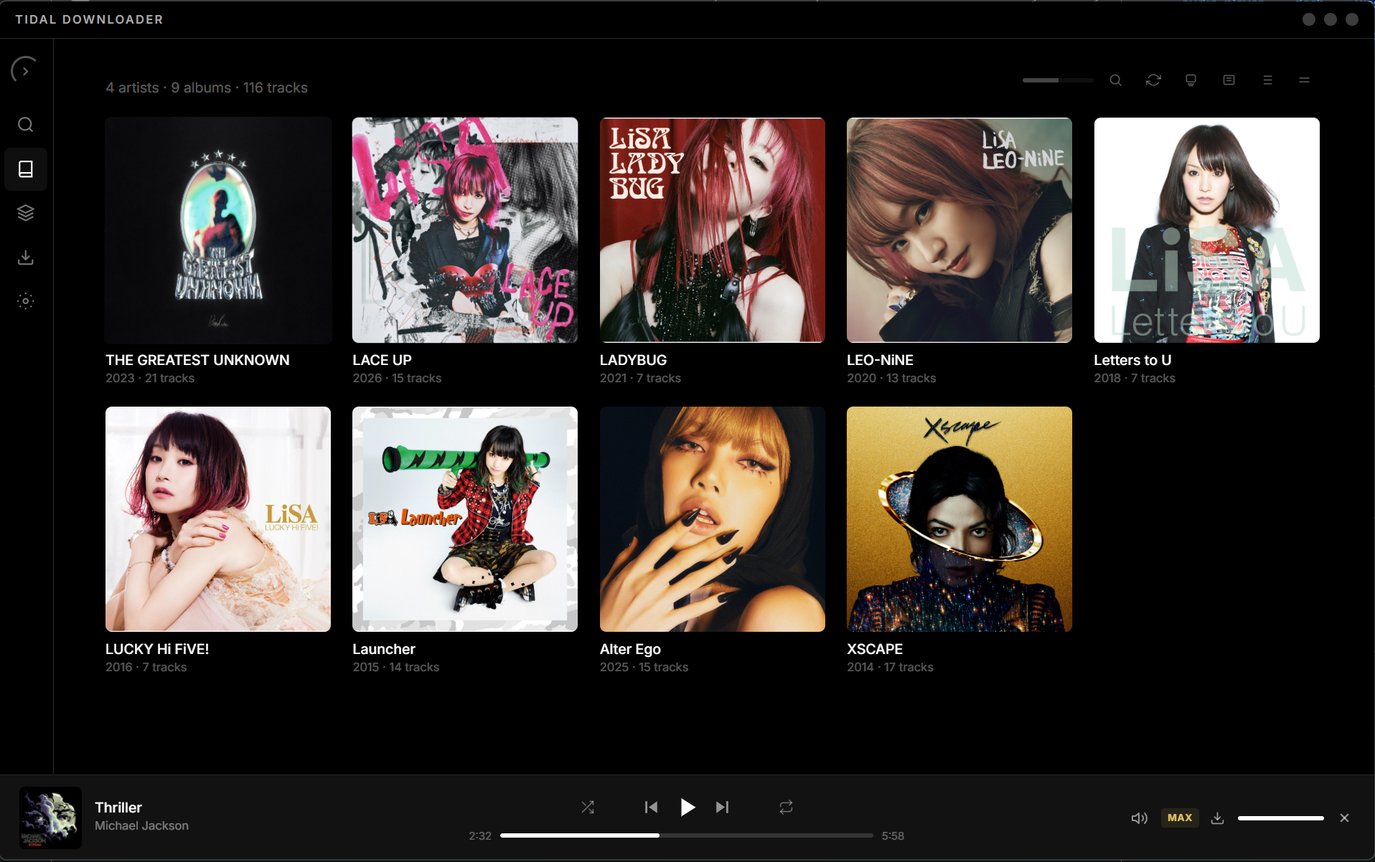
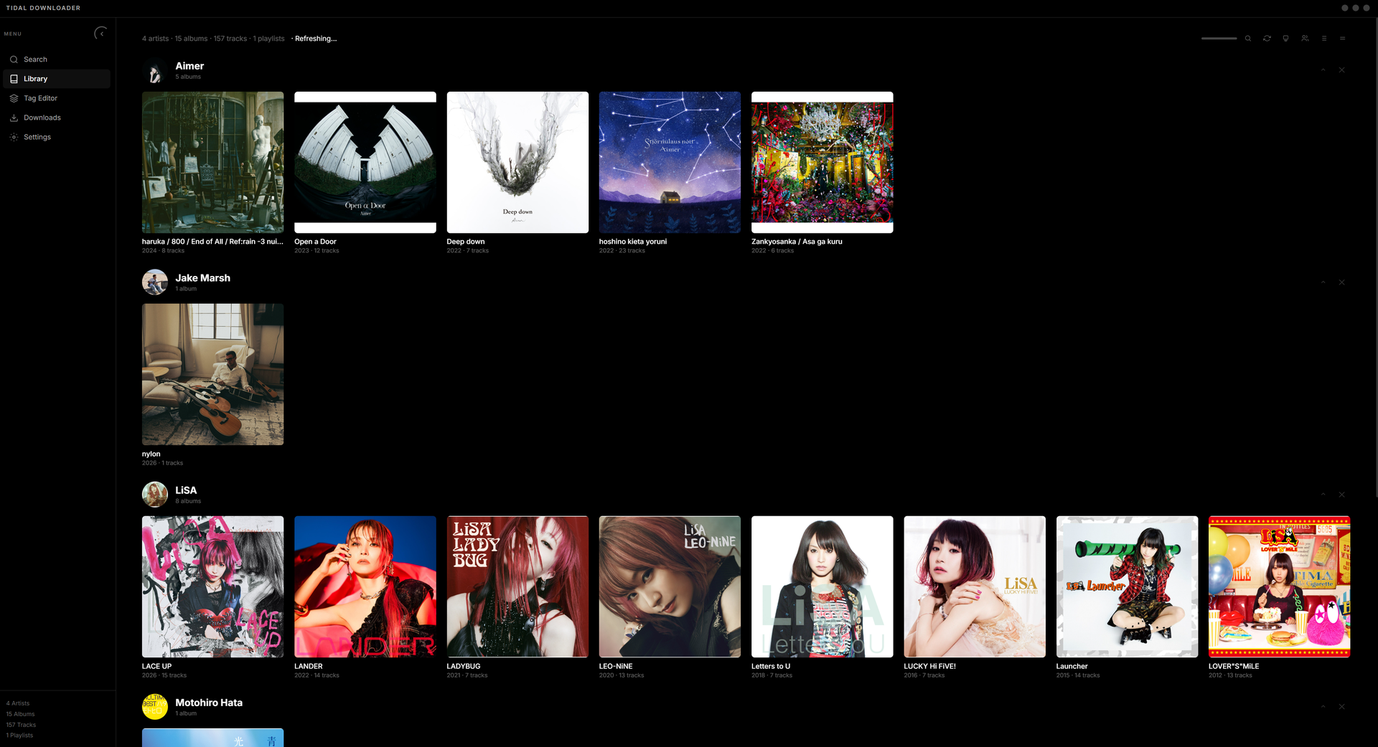
v1.0.3: full README refresh (EN + new Korean edition), built-in track identity section, new screenshot set, changelog

diff --git a/README.md b/README.md
@@ -4,7 +4,9 @@
 
 # TIDAL DOWNLOADER
 
-A high-fidelity desktop client for Tidal — download lossless **FLAC** (16-bit / 24-bit up to 192 kHz HI_RES_LOSSLESS), play **bit-perfect** via WASAPI exclusive mode, organize your library, and edit tags in bulk.<br>Built with Electron + React for Windows and macOS.
+**English** | [한국어](README.ko.md)
+
+A high-fidelity desktop client for Tidal — download lossless **FLAC** (16-bit / 24-bit up to 192 kHz HI_RES_LOSSLESS), grab whole **playlists**, play **bit-perfect** via WASAPI exclusive mode (Windows) or Core Audio Hog Mode (macOS), organize your library, and edit tags in bulk.<br>Built with Electron + React for Windows and macOS.
 
 [![Release](https://img.shields.io/github/v/release/ARCLIGHTSTRVL/tidal-downloader?style=flat-square)](https://github.com/ARCLIGHTSTRVL/tidal-downloader/releases/latest)
 [![Downloads](https://img.shields.io/github/downloads/ARCLIGHTSTRVL/tidal-downloader/total?style=flat-square)](https://github.com/ARCLIGHTSTRVL/tidal-downloader/releases)
@@ -13,7 +15,7 @@ A high-fidelity desktop client for Tidal — download lossless **FLAC** (16-bit 
 
 </div>
 
-> **Status:** v1.0.2 — stable on Windows. macOS **v1.0.2-beta** available for testing — Core Audio Hog Mode (bit-perfect exclusive output), native traffic-light layout, parallel album downloads. Feedback welcome on [Issues](../../issues).
+> **Status:** v1.0.3 — stable on **Windows and macOS**. This release brings native macOS builds (Apple Silicon + Intel) with bit-perfect Core Audio Hog Mode, the full playlist system, English/한국어 UI, update notifications, and a deep file-safety hardening pass. Feedback welcome on [Issues](../../issues).
 
 ---
 
@@ -21,16 +23,28 @@ A high-fidelity desktop client for Tidal — download lossless **FLAC** (16-bit 
 
 <table>
   <tr>
-    <td><img src="docs/images/library.png" alt="Library grid view" /></td>
-    <td><img src="docs/images/discography.png" alt="Artist discography" /></td>
+    <td><img src="docs/images/library.png" alt="Library — artist and album grid with playlists" /></td>
+    <td><img src="docs/images/library-list.png" alt="Library list view with per-track quality (FLAC 96 kHz / 24-bit)" /></td>
   </tr>
   <tr>
-    <td><img src="docs/images/search.png" alt="Search results" /></td>
-    <td><img src="docs/images/album-info.png" alt="Album metadata detail" /></td>
+    <td><img src="docs/images/search.png" alt="Search results — albums, playlists, and tracks" /></td>
+    <td><img src="docs/images/search-home.png" alt="Search home with library stats and favorites" /></td>
   </tr>
   <tr>
-    <td><img src="docs/images/album-art.png" alt="Full-resolution album art" /></td>
-    <td><img src="docs/images/tag-editor.png" alt="Bulk tag editor" /></td>
+    <td><img src="docs/images/album-download.png" alt="Album download in progress — three tracks in parallel" /></td>
+    <td><img src="docs/images/now-playing.png" alt="Now Playing view with ambient album backdrop" /></td>
+  </tr>
+  <tr>
+    <td><img src="docs/images/album-info.png" alt="Album info overlay with Tidal metadata and track list" /></td>
+    <td><img src="docs/images/album-art.png" alt="Full-resolution album art lightbox" /></td>
+  </tr>
+  <tr>
+    <td><img src="docs/images/tag-editor.png" alt="Bulk tag editor with file info" /></td>
+    <td><img src="docs/images/exclusive-mode.png" alt="Per-device exclusive mode (bit-perfect) options" /></td>
+  </tr>
+  <tr>
+    <td><img src="docs/images/settings-korean.png" alt="Settings in Korean (English/한국어 UI)" /></td>
+    <td></td>
   </tr>
 </table>
 
@@ -38,60 +52,64 @@ A high-fidelity desktop client for Tidal — download lossless **FLAC** (16-bit 
 
 - Tidal FLAC streams are saved as standard FLAC — no re-encode, no MP4 wrapper. HI_RES_LOSSLESS tracks come through as 24-bit at 96 or 192 kHz.
 - DASH manifests (used for HI_RES_LOSSLESS) are reassembled and remuxed losslessly via ffmpeg (`-c:a copy`).
-- On Windows, playback uses WASAPI exclusive mode with sample-rate matching for bit-perfect output to the DAC.
-- Each saved FLAC embeds `TIDAL_GUID` and `TIDAL_META` Vorbis tags; the library index can be rebuilt offline from these tags alone.
+- Playback is bit-perfect on both platforms: **WASAPI exclusive mode** on Windows, **Core Audio Hog Mode** on macOS — both take the device exclusively and switch it to the source's native sample rate.
+- Every download embeds Tidal-native identity inside the audio container itself (see below); the library index can be rebuilt offline from these tags alone.
 - The Windows installer is Authenticode-signed by ARCLIGHTSTRVL.
+
+## Built-in track identity
+
+What makes this app different from a plain downloader: **every file it saves carries its own Tidal identity inside the audio container** — a unique `TIDAL_GUID` plus a `TIDAL_META` record (Tidal track ID, original title/artist/album) written as Vorbis comments in FLAC and iTunes boxes in M4A. Because the identity lives in the file, not in a database:
+
+- **The app always recognizes its own downloads.** Rename the file, retag it, move it to another folder — the downloaded-✓ mark, album grouping, and duplicate detection stay accurate, verified against the embedded identity rather than file names or titles.
+- **Your library survives anything.** Wipe the app, move your music to a new machine, or lose the library index entirely — one offline **Rebuild** reconstructs the whole index from the tags in your files, no internet needed.
+- **No imposters.** A same-title file from somewhere else cannot masquerade as your verified download — files without a matching embedded identity are never treated as one.
+- **Standard tags, zero lock-in.** They're ordinary metadata fields that every tagging tool can read (and remove, if you ever want to) — your files stay plain FLAC/M4A that play anywhere.
 
 ## Features
 
 - **Lossless streaming & download** — FLAC at native sample rate, no transcoding for HiFi/Max tiers
 - **Max-quality DASH support** — segment assembly + ffmpeg remux for HI_RES_LOSSLESS (24-bit / 96 kHz / 192 kHz)
-- **Bit-perfect output** — Windows: WASAPI exclusive mode with native sample-rate negotiation, force-volume option. macOS (beta): Core Audio Hog Mode with nominal sample-rate matching
-- **Library** — auto-scanned `Artist > Album` tree with list and grid views, library-wide playback, current-track highlight
+- **Playlists** — browse Tidal playlists (search results, your own + favorites, recent), open any playlist by pasting its link or UUID, batch-download into a dedicated `playlists/<name>/` folder with playlist track order and cover art, and manage them as a first-class Library group
+- **Bit-perfect output** — Windows: WASAPI exclusive mode with native sample-rate negotiation, force-volume option. macOS: Core Audio Hog Mode with nominal sample-rate matching
+- **Fast album downloads** — album tracks download 3 at a time; Max-quality DASH segments are already parallel per track
+- **Library** — auto-scanned `Artist > Album` tree with list and grid views, library-wide playback, current-track highlight, playlist-aware search
 - **Tag editor** — bulk album-level edits, embedded album art, drag-drop file/folder import, multi-root refresh
-- **Search & discovery** — artist/album search with discography (Albums / EP & Singles), favorites, recent history sections
+- **Search & discovery** — artist/album search with discography (Albums / EP & Singles), favorites, recent history sections, library stats on the search home
 - **Playback** — gapless local playback via custom `local://` protocol, shuffle/repeat (off → one → album), responsive seek scrubber
 - **Album art** — selectable embed quality (320 / 640 / 1280), hover tilt, full-resolution lightbox, separate art download path
-- **Persistent state** — library index with Tidal canonical IDs (handles same-name artist collision like *LiSA* vs *LISA*)
+- **Update notifications** (Windows + macOS) — background version checks with a toast that links to the newest release, plus a manual check in Settings
+- **English / 한국어** — switch the UI language instantly in Settings
+- **Persistent state** — library index with Tidal canonical IDs (handles same-name artist collision like *LiSA* vs *LISA*); downloaded-✓ marks verified by embedded identity, so retagged or renamed files keep their checkmark
 - **History navigation** — mouse thumb buttons (XButton1 / XButton2) for app-wide back/forward across pages
 - **Probe available quality** — quick check whether your subscription tier actually returns lossless or AAC for sample tracks (Settings → Check available quality)
-- **Library maintenance** — resync metadata + reorganize files from Tidal online, or rebuild the library index offline from `TIDAL_GUID` / `TIDAL_META` Vorbis comments embedded in your FLACs
+- **Library maintenance** — resync metadata + reorganize files from Tidal online, or rebuild the library index offline from the identity tags embedded in your files (FLAC and M4A)
 
 ## Download
 
-### Stable — v1.0.2 (Windows)
+### v1.0.3 (Windows + macOS)
 
-See [Releases](../../releases/tag/v1.0.2).
-
-| Platform | File | Size |
-|----------|------|------|
-| Windows 10/11 (x64) | `TIDAL DOWNLOADER Setup 1.0.2.exe` | ~118 MB |
-
-### Beta — v1.0.2-beta (macOS only)
-
-> ⚠ **Beta — not all features are guaranteed to work correctly.** This is an early macOS preview; expect rough edges, especially around exclusive-mode device negotiation. Please [report issues](../../issues) so they can be fixed before v1.0.3 stable.
-
-First macOS build with Core Audio Hog Mode (bit-perfect exclusive output) and the macOS-first UX pass. Code paths shared with Windows (parallel album downloads, library refresh debounce) ship with v1.0.3 on both platforms — this beta is the macOS preview track. See [Releases v1.0.2-beta](../../releases/tag/v1.0.2-beta).
+See [Releases](../../releases/latest).
 
 | Platform | File | Size |
 |----------|------|------|
-| macOS Apple Silicon (arm64) | `TIDAL DOWNLOADER-1.0.2-beta-arm64.dmg` | ~128 MB |
-| macOS Intel (x64) | `TIDAL DOWNLOADER-1.0.2-beta.dmg` | ~134 MB |
+| Windows 10/11 (x64) | `TIDAL DOWNLOADER Setup 1.0.3.exe` | ~119 MB |
+| macOS Apple Silicon (arm64) | `TIDAL DOWNLOADER-1.0.3-arm64.dmg` | ~129 MB |
+| macOS Intel (x64) | `TIDAL DOWNLOADER-1.0.3.dmg` | ~141 MB |
 
-> Beta DMGs are **unsigned** (ad-hoc) — Apple Developer notarization is on the roadmap. See macOS install steps below for the right-click → Open workaround.
+> macOS builds are **unsigned** (Apple Developer notarization is on the roadmap) — see the install steps below for the one-time "Open Anyway" step.
 
 ## Installation
 
 ### Windows
-1. Download `TIDAL DOWNLOADER Setup 1.0.2.exe` from the latest release.
+1. Download `TIDAL DOWNLOADER Setup 1.0.3.exe` from the latest release.
 2. Run the installer — it is signed by **ARCLIGHTSTRVL** (Authenticode), so SmartScreen should not flag it.
 3. Follow the wizard. Per-user install, no admin required.
 
-### macOS (v1.0.2-beta)
+### macOS
 1. Download the `.dmg` matching your CPU (Apple Silicon `arm64` or Intel `x64`).
 2. Mount it and drag *TIDAL DOWNLOADER* into `/Applications`.
-3. First launch: right-click → **Open** to bypass the unidentified-developer warning (beta builds are unsigned).
-4. Or clear the quarantine flag from Terminal: `xattr -cr "/Applications/TIDAL DOWNLOADER.app"`.
+3. First launch: if macOS blocks the app, open **System Settings → Privacy & Security** and click **"Open Anyway"** (needed once). On older macOS versions, right-click → **Open** works too.
+4. Alternatively, clear the quarantine flag from Terminal: `xattr -cr "/Applications/TIDAL DOWNLOADER.app"`.
 
 ## Requirements
 
@@ -103,15 +121,15 @@ First macOS build with Core Audio Hog Mode (bit-perfect exclusive output) and th
 
 1. Launch the app and sign in via the Tidal Device Code flow (your default browser opens automatically with a short code).
 2. Set your download folder in **Settings → Download location**. The album-art folder is initialized to `<downloadPath>/art` automatically.
-3. Search for any artist or album, then click **Download** on a track or **Download All** on an album.
-4. Use the **Library** tab to play your downloaded collection — list mode for browsing, grid mode with artist avatars for visual scanning.
+3. Search for any artist or album — or paste a playlist link — then click **Download** on a track, **Download All** on an album, or download the whole playlist at once.
+4. Use the **Library** tab to play your downloaded collection — list mode for browsing, grid mode with artist avatars for visual scanning, and a dedicated Playlists group.
 5. Use the **Tag Editor** for bulk metadata cleanup before archiving or sharing.
 
 ## Audio quality
 
 Downloads are written as standard FLAC (no MP4 wrapper). When the Tidal manifest is DASH (HI_RES_LOSSLESS), the app assembles segments and remuxes losslessly via ffmpeg (`-c:a copy`). When the requested quality is unavailable for a track, the app falls back gracefully and only saves real FLAC — never a re-encoded AAC.
 
-On Windows, **Use exclusive mode** in the audio device picker takes hold of the device for bit-perfect output and matches the source sample rate / bit depth (16/44.1, 24/96, 24/192). On macOS the toggle currently has no effect (Core Audio Hog Mode is on the roadmap).
+**Use exclusive mode** in the audio device picker takes hold of the device for bit-perfect output and matches the source sample rate / bit depth (16/44.1, 24/96, 24/192) — via WASAPI exclusive mode on Windows and Core Audio Hog Mode on macOS.
 
 ## Reporting issues
 

diff --git a/README.ko.md b/README.ko.md
@@ -1,0 +1,171 @@
+<div align="center">
+
+<img src="assets/icon.svg" alt="TIDAL DOWNLOADER" width="160" />
+
+# TIDAL DOWNLOADER
+
+[English](README.md) | **한국어**
+
+Tidal을 위한 고음질 데스크톱 클라이언트 — 무손실 **FLAC** 다운로드(16비트 / 24비트, 최대 192 kHz HI_RES_LOSSLESS), **플레이리스트** 통째로 받기, **비트퍼펙트** 재생(Windows: WASAPI 배타 모드, macOS: Core Audio Hog Mode), 라이브러리 정리와 일괄 태그 편집까지.<br>Electron + React 기반, Windows / macOS 지원.
+
+[![Release](https://img.shields.io/github/v/release/ARCLIGHTSTRVL/tidal-downloader?style=flat-square)](https://github.com/ARCLIGHTSTRVL/tidal-downloader/releases/latest)
+[![Downloads](https://img.shields.io/github/downloads/ARCLIGHTSTRVL/tidal-downloader/total?style=flat-square)](https://github.com/ARCLIGHTSTRVL/tidal-downloader/releases)
+[![Platform](https://img.shields.io/badge/platform-Windows%20%7C%20macOS-lightgrey?style=flat-square)]()
+[![License](https://img.shields.io/badge/license-Proprietary-blue?style=flat-square)](LICENSE)
+
+</div>
+
+> **상태:** v1.0.3 — **Windows와 macOS 모두 안정 버전.** 이번 릴리스에서 macOS 네이티브 빌드(Apple Silicon + Intel)와 비트퍼펙트 Core Audio Hog Mode, 플레이리스트 시스템 전체, 한국어/영어 UI, 업데이트 알림, 그리고 대규모 파일 안전성 강화가 들어갔습니다. 의견은 [Issues](../../issues)로 보내주세요.
+
+---
+
+## 스크린샷
+
+<table>
+  <tr>
+    <td><img src="docs/images/library.png" alt="라이브러리 — 아티스트·앨범 그리드와 플레이리스트" /></td>
+    <td><img src="docs/images/library-list.png" alt="라이브러리 리스트 뷰 — 트랙별 음질 (FLAC 96 kHz / 24비트)" /></td>
+  </tr>
+  <tr>
+    <td><img src="docs/images/search.png" alt="검색 결과 — 앨범·플레이리스트·트랙" /></td>
+    <td><img src="docs/images/search-home.png" alt="검색 홈 — 라이브러리 통계와 즐겨찾기" /></td>
+  </tr>
+  <tr>
+    <td><img src="docs/images/album-download.png" alt="앨범 다운로드 진행 — 트랙 3개 동시" /></td>
+    <td><img src="docs/images/now-playing.png" alt="재생 화면 — 앨범 배경 앰비언트" /></td>
+  </tr>
+  <tr>
+    <td><img src="docs/images/album-info.png" alt="앨범 정보 오버레이 — Tidal 메타데이터와 트랙 목록" /></td>
+    <td><img src="docs/images/album-art.png" alt="원본 해상도 앨범 아트 라이트박스" /></td>
+  </tr>
+  <tr>
+    <td><img src="docs/images/tag-editor.png" alt="일괄 태그 편집기와 파일 정보" /></td>
+    <td><img src="docs/images/exclusive-mode.png" alt="장치별 배타 모드(비트퍼펙트) 옵션" /></td>
+  </tr>
+  <tr>
+    <td><img src="docs/images/settings-korean.png" alt="한국어 설정 화면 (English/한국어 UI)" /></td>
+    <td></td>
+  </tr>
+</table>
+
+## 동작 방식
+
+- Tidal의 FLAC 스트림을 표준 FLAC 그대로 저장합니다 — 재인코딩 없음, MP4 래퍼 없음. HI_RES_LOSSLESS 트랙은 24비트 96/192 kHz로 저장됩니다.
+- HI_RES_LOSSLESS에 쓰이는 DASH 매니페스트는 세그먼트를 조립한 뒤 ffmpeg로 무손실 remux(`-c:a copy`)합니다.
+- 재생은 양 플랫폼 모두 비트퍼펙트: Windows는 **WASAPI 배타 모드**, macOS는 **Core Audio Hog Mode** — 장치를 독점 점유하고 음원의 네이티브 샘플레이트로 직접 전환합니다.
+- 모든 다운로드가 Tidal 고유 정체성을 오디오 컨테이너 안에 직접 내장합니다(아래 참고). 라이브러리 인덱스는 이 태그만으로 오프라인 재구축이 가능합니다.
+- Windows 인스톨러는 ARCLIGHTSTRVL의 Authenticode 서명이 되어 있습니다.
+
+## 트랙 정체성 내장
+
+이 앱이 단순 다운로더와 다른 핵심: **저장하는 모든 파일이 자기 자신의 Tidal 정체성을 오디오 컨테이너 안에 품고 있습니다** — 고유 `TIDAL_GUID`와 `TIDAL_META` 레코드(Tidal 트랙 ID, 원본 제목/아티스트/앨범)를 FLAC은 Vorbis 코멘트로, M4A는 iTunes 박스로 기록합니다. 정체성이 데이터베이스가 아니라 파일 자체에 있기 때문에:
+
+- **앱이 자기 다운로드를 항상 알아봅니다.** 파일명을 바꾸든, 태그를 고치든, 다른 폴더로 옮기든 — 다운로드 ✓ 표시, 앨범 그룹핑, 중복 감지가 파일명이나 제목이 아닌 내장 정체성으로 검증되어 정확하게 유지됩니다.
+- **라이브러리가 무엇에도 살아남습니다.** 앱을 지우거나, 음악을 새 컴퓨터로 옮기거나, 라이브러리 인덱스를 통째로 잃어도 — 오프라인 **Rebuild** 한 번이면 파일 안의 태그만으로 인덱스 전체가 복원됩니다. 인터넷도 필요 없습니다.
+- **가짜가 끼어들 수 없습니다.** 다른 곳에서 온 동명 파일이 검증된 다운로드로 위장할 수 없습니다 — 일치하는 내장 정체성이 없는 파일은 절대 다운로드로 취급되지 않습니다.
+- **표준 태그, 종속성 제로.** 어떤 태깅 도구로도 읽을 수 있는(원하면 지울 수도 있는) 평범한 메타데이터 필드입니다 — 파일은 어디서든 재생되는 그냥 FLAC/M4A입니다.
+
+## 기능
+
+- **무손실 스트리밍 & 다운로드** — 네이티브 샘플레이트의 FLAC, HiFi/Max 티어 무변환
+- **최고 음질 DASH 지원** — HI_RES_LOSSLESS(24비트 / 96 kHz / 192 kHz) 세그먼트 조립 + ffmpeg remux
+- **플레이리스트** — Tidal 플레이리스트 탐색(검색 결과, 내 플레이리스트+즐겨찾기, 최근 열람), 링크나 UUID를 붙여넣어 바로 열기, `playlists/<이름>/` 전용 폴더로 일괄 다운로드(플레이리스트 순번 파일명 + 커버 아트), 라이브러리의 전용 그룹으로 관리
+- **비트퍼펙트 출력** — Windows: WASAPI 배타 모드 + 네이티브 샘플레이트 협상 + 볼륨 고정 옵션. macOS: Core Audio Hog Mode + 노미널 샘플레이트 매칭
+- **빠른 앨범 다운로드** — 앨범 트랙 3개 동시 다운로드, Max 음질 DASH는 트랙별 세그먼트 병렬
+- **라이브러리** — 자동 스캔되는 `아티스트 > 앨범` 트리, 리스트/그리드 뷰, 라이브러리 전체 이어듣기, 현재 곡 하이라이트, 플레이리스트 포함 검색
+- **태그 편집기** — 앨범 단위 일괄 편집, 앨범 아트 내장, 드래그-드롭 파일/폴더 가져오기, 다중 루트 새로고침
+- **검색 & 탐색** — 아티스트/앨범 검색과 디스코그래피(앨범 / EP & 싱글), 즐겨찾기, 최근 기록, 검색 홈의 라이브러리 통계
+- **재생** — 전용 `local://` 프로토콜 기반 로컬 재생, 셔플/반복(끄기 → 한 곡 → 앨범), 반응형 시크 바
+- **앨범 아트** — 내장 품질 선택(320 / 640 / 1280), 호버 틸트, 원본 해상도 라이트박스, 아트 전용 저장 경로
+- **업데이트 알림** (Windows + macOS) — 백그라운드 버전 확인 후 최신 릴리스로 안내하는 토스트, 설정에서 수동 확인 가능
+- **English / 한국어** — 설정에서 UI 언어 즉시 전환
+- **영속 상태** — Tidal 정식 ID 기반 라이브러리 인덱스(*LiSA* vs *LISA* 같은 동명 아티스트 구분), 다운로드 ✓ 표시는 내장 식별자로 검증되어 태그를 고치거나 파일명을 바꿔도 유지
+- **히스토리 내비게이션** — 마우스 엄지 버튼(XButton1 / XButton2)으로 앱 전체 뒤로/앞으로
+- **음질 프로브** — 내 구독 티어가 실제로 무손실을 주는지 샘플 트랙으로 빠르게 확인(설정 → 사용 가능 음질 확인)
+- **라이브러리 유지보수** — Tidal 온라인 기준 메타데이터 재동기화 + 파일 재정리, 또는 파일에 내장된 식별 태그(FLAC·M4A)만으로 인덱스 오프라인 재구축(Rebuild)
+
+## 다운로드
+
+### v1.0.3 (Windows + macOS)
+
+[Releases](../../releases/latest)에서 받을 수 있습니다.
+
+| 플랫폼 | 파일 | 크기 |
+|--------|------|------|
+| Windows 10/11 (x64) | `TIDAL DOWNLOADER Setup 1.0.3.exe` | 약 119 MB |
+| macOS Apple Silicon (arm64) | `TIDAL DOWNLOADER-1.0.3-arm64.dmg` | 약 129 MB |
+| macOS Intel (x64) | `TIDAL DOWNLOADER-1.0.3.dmg` | 약 141 MB |
+
+> macOS 빌드는 **무서명**입니다(Apple Developer 공증은 로드맵에 있음) — 아래 설치 단계의 1회성 "그래도 열기" 절차를 참고하세요.
+
+## 설치
+
+### Windows
+1. 최신 릴리스에서 `TIDAL DOWNLOADER Setup 1.0.3.exe`를 받습니다.
+2. 인스톨러를 실행합니다 — **ARCLIGHTSTRVL** Authenticode 서명이 되어 있어 SmartScreen에 걸리지 않아야 정상입니다.
+3. 마법사를 따라가면 됩니다. 사용자 단위 설치, 관리자 권한 불필요.
+
+### macOS
+1. CPU에 맞는 `.dmg`를 받습니다(Apple Silicon은 `arm64`, Intel은 `x64`).
+2. 마운트한 뒤 *TIDAL DOWNLOADER*를 `/Applications`로 끌어 넣습니다.
+3. 첫 실행 시 macOS가 차단하면 **시스템 설정 → 개인정보 보호 및 보안**에서 **"그래도 열기"**를 누릅니다(최초 1회). 구버전 macOS에서는 우클릭 → **열기**로도 됩니다.
+4. 또는 터미널에서 격리 플래그를 제거해도 됩니다: `xattr -cr "/Applications/TIDAL DOWNLOADER.app"`.
+
+## 요구 사항
+
+- **Tidal 구독** — 무손실/최고 음질 다운로드에는 HiFi 또는 HiFi Plus가 필요합니다.
+- **Windows 10/11 (x64)** 또는 **macOS 10.15+** (Intel / Apple Silicon).
+- 여유 디스크 약 250 MB(음악 라이브러리 제외).
+
+## 빠른 시작
+
+1. 앱을 실행하고 Tidal 기기 코드 로그인으로 로그인합니다(기본 브라우저가 짧은 코드와 함께 자동으로 열립니다).
+2. **설정 → 다운로드 위치**에서 다운로드 폴더를 지정합니다. 앨범 아트 폴더는 `<다운로드 경로>/art`로 자동 설정됩니다.
+3. 아티스트나 앨범을 검색하거나 플레이리스트 링크를 붙여넣고 — 트랙의 **다운로드**, 앨범의 **전체 다운로드**, 또는 플레이리스트 일괄 다운로드를 누릅니다.
+4. **라이브러리** 탭에서 받은 음악을 재생합니다 — 리스트 모드로 훑고, 그리드 모드로 시각적으로 탐색하고, 전용 플레이리스트 그룹으로 관리합니다.
+5. 보관/공유 전 정리는 **태그 편집기**의 일괄 편집으로.
+
+## 음질
+
+다운로드는 표준 FLAC으로 저장됩니다(MP4 래퍼 없음). Tidal 매니페스트가 DASH(HI_RES_LOSSLESS)면 세그먼트를 조립해 ffmpeg로 무손실 remux(`-c:a copy`)합니다. 요청한 음질이 제공되지 않는 트랙은 자연스럽게 폴백하되, 진짜 FLAC만 저장합니다 — 재인코딩된 AAC를 FLAC으로 위장해 저장하는 일은 없습니다.
+
+오디오 장치 선택기의 **배타 모드 사용**을 켜면 장치를 독점 점유해 음원의 샘플레이트/비트 심도(16/44.1, 24/96, 24/192)에 맞춰 비트퍼펙트로 출력합니다 — Windows는 WASAPI 배타 모드, macOS는 Core Audio Hog Mode.
+
+## 버그 신고
+
+버그나 기능 요청은 [Issues 페이지](../../issues)에 올려주세요.
+
+버그 신고 시 포함해 주세요:
+- 앱 버전(**설정 → About** 하단)
+- OS와 버전
+- 재현 방법
+- Tidal 구독 티어(HiFi / HiFi Plus)
+- 재현 가능하면 콘솔 출력 — Windows는 PowerShell에서:
+  ```powershell
+  $env:ELECTRON_ENABLE_LOGGING=1
+  & "$env:LOCALAPPDATA\Programs\tidal-downloader\TIDAL DOWNLOADER.exe"
+  ```
+
+## 면책 조항
+
+이 앱은 비공식 서드파티 도구이며, Tidal 또는 Aspiro AB와 **아무런 제휴·후원·보증 관계가 없습니다**.
+
+Tidal 서비스 약관 준수는 사용자 본인의 책임입니다. 다운로드는 구독으로 이미 비용을 지불한 음악을 개인적, 오프라인으로 듣기 위한 용도입니다. **다운로드한 콘텐츠를 재배포하지 마세요.**
+
+내부적으로 ffmpeg를 사용하며 LGPL-2.1+ 라이선스를 따릅니다 — 자세한 내용은 [ffmpeg.org/legal.html](https://ffmpeg.org/legal.html)을 참고하세요. 번들 바이너리는 [`ffmpeg-static`](https://www.npmjs.com/package/ffmpeg-static)에서 가져옵니다.
+
+## 라이선스
+
+Copyright © 2026 **ARCLIGHTSTRVL**. All rights reserved.
+
+컴파일된 애플리케이션은 개인 사용 목적으로 있는 그대로 제공됩니다. 소스 코드는 공개되지 않습니다. 전체 조건은 [LICENSE](LICENSE)를 참고하세요.
+
+## 후원
+
+TIDAL DOWNLOADER가 유용했다면 [Ko-fi](https://ko-fi.com/arclights)에서 개발을 후원할 수 있습니다. 모든 후원이 프로젝트 유지에 큰 힘이 됩니다 — 감사합니다.
+
+[![Ko-fi](https://img.shields.io/badge/Support_on-Ko--fi-FF5E5B?style=flat-square&logo=ko-fi&logoColor=white)](https://ko-fi.com/arclights)
+
+---
+
+Built by **ARCLIGHTSTRVL**.

diff --git a/CHANGELOG.md b/CHANGELOG.md
@@ -2,6 +2,29 @@
 
 All notable user-visible changes to TIDAL DOWNLOADER.
 
+## v1.0.3 — 2026-08-14
+
+### New
+- **macOS support** — native Apple Silicon and Intel builds with bit-perfect **Core Audio Hog Mode** exclusive output (device hog + nominal sample-rate switching), macOS-native titlebar and menu-bar tray, full library path support. Supersedes `v1.0.2-beta`; the Intel build now ships the correct Intel ffmpeg (the beta's Intel build could not download or convert).
+- **Playlist system** — browse Tidal playlists (search results, your own + favorites, recent), open any playlist by pasting its link or UUID, batch-download into `playlists/<name>/` with playlist track order and cover art, and manage playlists as a dedicated Library group with per-playlist/per-track delete, misplaced-album detection, and duplicate detection.
+- **Update notifications** (Windows + macOS) — background version checks with a toast linking to the newest release, plus a manual check in Settings.
+- **English / 한국어** — switch the UI language instantly in Settings.
+- **Parallel album downloads** — album tracks download 3 at a time on both platforms.
+- Search home shows library stats; library search matches playlists and their tracks.
+- **Space bar** toggles play/pause while the app is focused (never while typing).
+
+### Improved / Fixed
+- Search navigation is symmetric — back from an album/artist restores your results; clicking a track no longer wipes them.
+- Downloads panel ✕ actually cancels an in-progress download; Clear removes only finished entries.
+- An expired Tidal session shows an error banner instead of pretending there are no results.
+- Player overlay: correct per-track artists, ALBUM INFO follows the current song, the queue follows the current album/playlist, album art can no longer stick to the wrong cover.
+- Library toolbar stays pinned while scrolling; failed deletes show a summary instead of silently vanishing from the UI; unreadable folders show a warning banner instead of masquerading as an empty library.
+- Downloaded-✓ marks are verified by embedded identity instead of file names — retagged or renamed files keep their checkmark, and identity-less files can't inherit one.
+- Settings polish: consistent controls, Reset no longer wipes language/update preferences, hold-to-delete requires a real 1-second hold.
+
+### Reliability
+- Fifty-plus external review rounds across the download pipeline, delete paths, and the library index: atomic per-attempt temp files and publishes (a failed re-download can never damage an existing file), a three-stage integrity gate on every download (magic bytes → parser → real ffmpeg decode), mutual exclusion between downloads and library maintenance, proof-based recursive deletes (no symlink/junction traversal, unverified content is never deleted), atomic index saves, and offline index Rebuild from the identity tags embedded in FLAC and M4A files.
+
 ## v1.0.2 — 2026-05-01
 
 ### Branding
